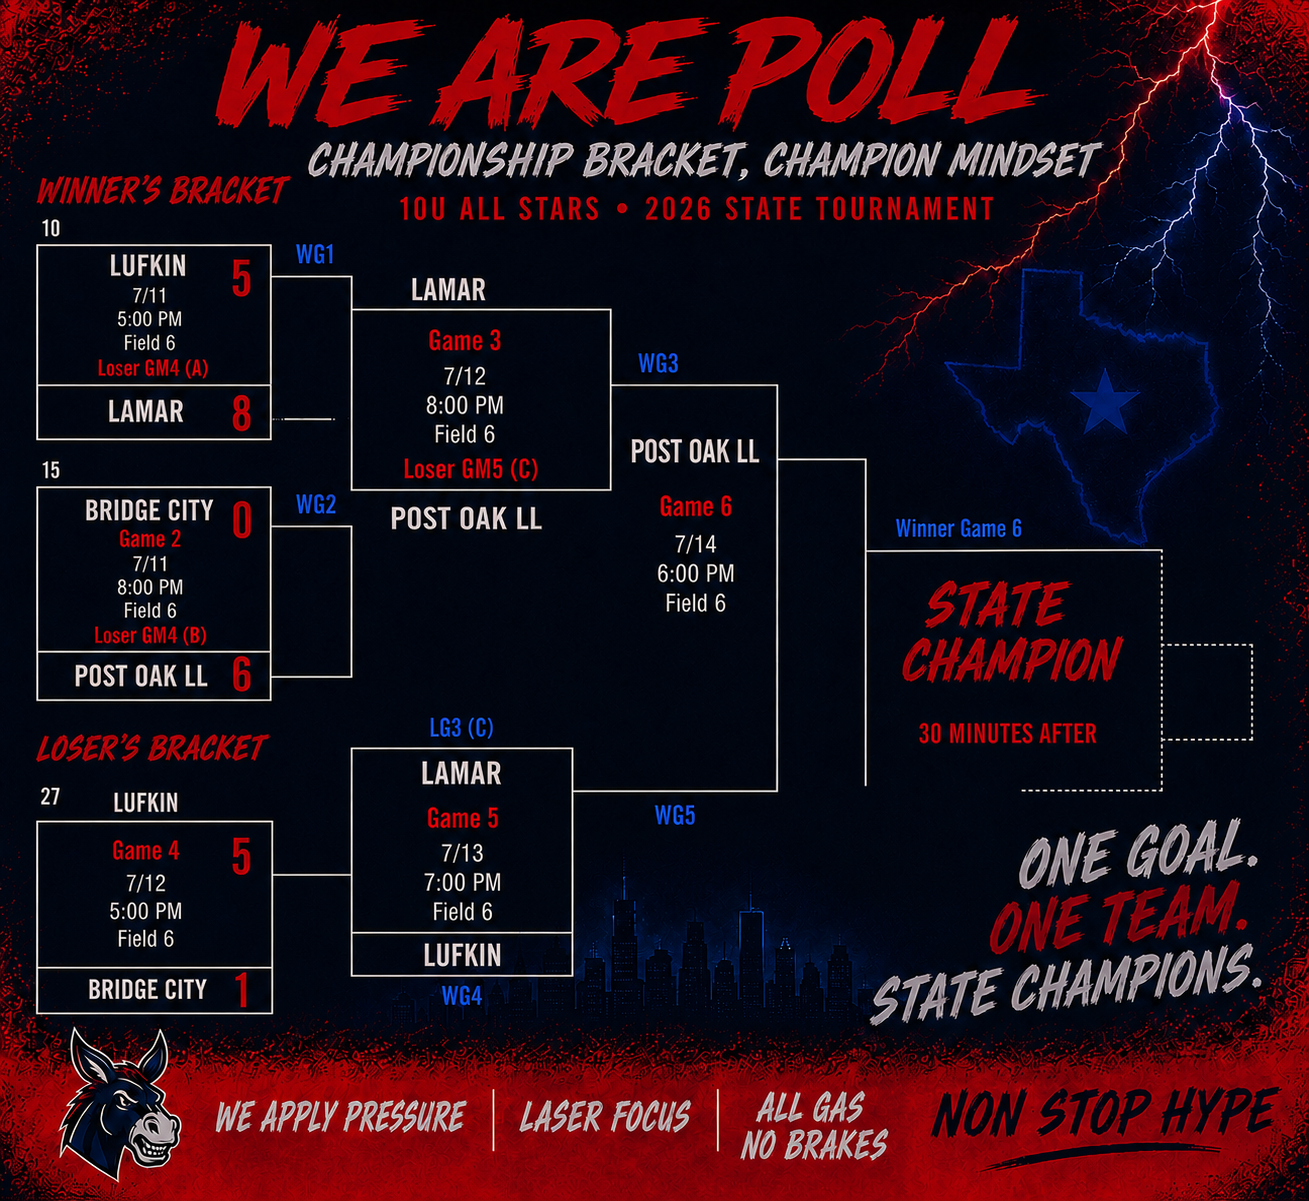
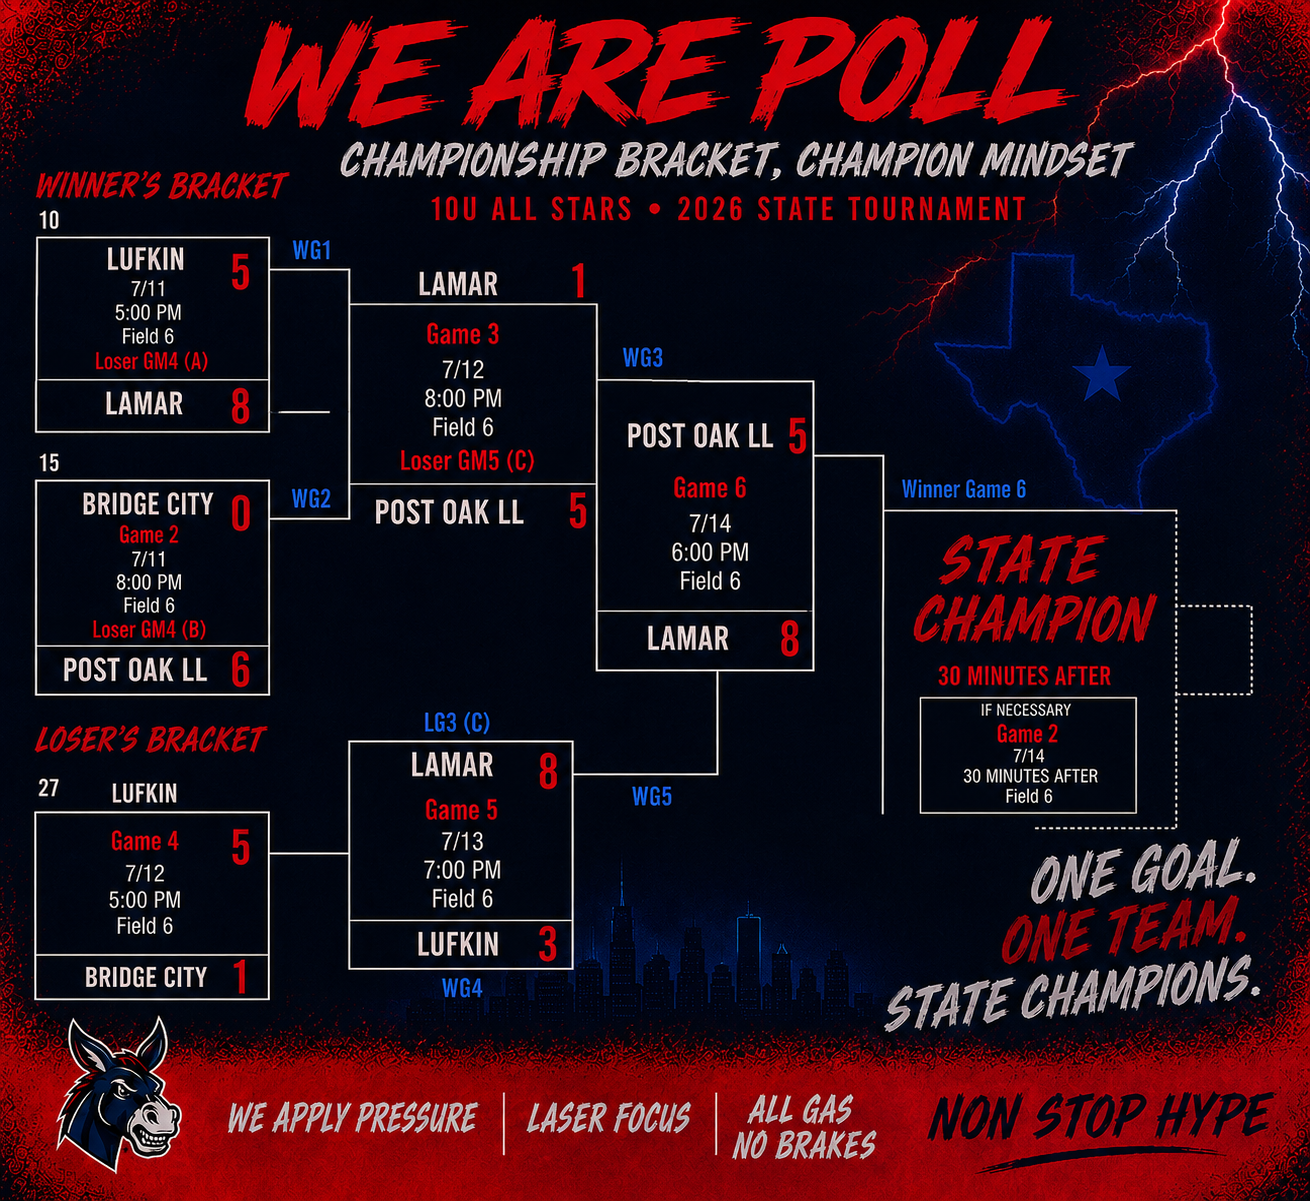
Add championship trailer and final media

diff --git a/hype.html b/hype.html
@@ -3,8 +3,8 @@
 <head>
   <meta charset="utf-8" />
   <meta name="viewport" content="width=device-width, initial-scale=1" />
-  <title>State Hype Video | Post Oak Live</title>
-  <meta name="description" content="Watch the Post Oak 10s All Stars state tournament hype video directly on Post Oak Live." />
+  <title>Championship Trailer | Post Oak Live</title>
+  <meta name="description" content="Watch the Post Oak 10U All Stars Championship Trailer and state hype video directly on Post Oak Live." />
   <link rel="icon" href="assets/brand/post-oak-logo-512.png" />
   <link rel="preconnect" href="https://fonts.googleapis.com">
   <link rel="preconnect" href="https://fonts.gstatic.com" crossorigin>
@@ -26,23 +26,46 @@
     </nav>
   </header>
 
-  <main id="main" class="watch-page">
+  <main id="main" class="watch-page hype-page">
     <section class="watch-hero">
       <div>
-        <p class="eyebrow">Post Oak 10s All Stars</p>
-        <h1>State Hype Video</h1>
+        <p class="eyebrow">Post Oak 10U All Stars</p>
+        <h1>Championship Trailer</h1>
         <p class="lede">Catch The Fever</p>
       </div>
     </section>
 
-    <section class="media-shell" aria-label="Post Oak 10s All Stars hype video player">
+    <section class="media-shell trailer-shell" aria-label="Post Oak 10U All Stars Championship Trailer player">
+      <div class="media-section-heading">
+        <span class="panel-kicker">Featured</span>
+        <h2>Championship Trailer</h2>
+        <p>Mobile-optimized for fans following Post Oak from anywhere.</p>
+      </div>
+      <div class="media-frame trailer-frame">
+        <video
+          controls
+          preload="metadata"
+          playsinline
+          poster="assets/brand/championship-poster.webp"
+          aria-label="Post Oak 10U All Stars Championship Trailer">
+          <source src="assets/video/championship-trailer.mp4?v=final-20260713" type="video/mp4" />
+          Your browser does not support HTML5 video. <a href="assets/video/championship-trailer.mp4">Download the Championship Trailer</a> instead.
+        </video>
+      </div>
+    </section>
+
+    <section class="media-shell secondary-video-shell" aria-label="Post Oak 10U All Stars hype video player">
+      <div class="media-section-heading">
+        <span class="panel-kicker">Original Hype Video</span>
+        <h2>State Hype Video</h2>
+      </div>
       <div class="media-frame">
         <video
           controls
           preload="metadata"
           playsinline
           poster="assets/video/hype-poster.jpg"
-          aria-label="Post Oak 10s All Stars state tournament hype video">
+          aria-label="Post Oak 10U All Stars state tournament hype video">
           <source src="assets/video/post-oak-10s-hype.mp4?v=92cac2a" type="video/mp4" />
           Your browser does not support HTML5 video. <a href="assets/video/post-oak-10s-hype.mp4">Download the video</a> instead.
         </video>
@@ -52,7 +75,7 @@
 
   <footer class="site-footer">
     <span>© <span id="year"></span> Post Oak Live</span>
-    <span>Post Oak Little League tournament streaming.</span>
+    <span>Post Oak Little League championship media.</span>
   </footer>
   <script src="site.js"></script>
 </body>

diff --git a/styles.css b/styles.css
@@ -302,3 +302,23 @@ h3 { font-size: clamp(2.25rem, 5vw, 4.4rem); font-weight: 900; }
   .championship-hero h1 { font-size: clamp(3.65rem, 17vw, 5.4rem); }
   .hero-subhead { font-size: clamp(1.35rem, 8vw, 2.1rem); }
 }
+
+
+/* Championship trailer / final media updates */
+.hype-page .watch-hero { padding-bottom: 1.2rem; }
+.hype-page .media-shell + .media-shell { margin-top: clamp(2rem, 5vw, 4rem); }
+.media-section-heading { padding: .25rem .2rem 1rem; max-width: 760px; }
+.media-section-heading h2 { font-size: clamp(2.5rem, 6vw, 5.2rem); }
+.media-section-heading p { margin: .7rem 0 0; color: var(--muted); font-size: clamp(1rem, 2vw, 1.16rem); }
+.trailer-shell { background: linear-gradient(180deg, rgba(217,4,41,.12), rgba(255,255,255,.04)); }
+.trailer-frame {
+  aspect-ratio: 9 / 16;
+  width: min(100%, 430px);
+  margin: 0 auto;
+}
+.trailer-frame video { object-fit: contain; }
+.secondary-video-shell { background: rgba(255,255,255,.035); }
+@media (max-width: 520px) {
+  .trailer-frame { width: 100%; }
+  .media-section-heading h2 { font-size: clamp(2.25rem, 13vw, 3.7rem); }
+}

diff --git a/bracket.html b/bracket.html
@@ -3,8 +3,8 @@
 <head>
   <meta charset="utf-8" />
   <meta name="viewport" content="width=device-width, initial-scale=1" />
-  <title>Tournament Bracket | Post Oak Live</title>
-  <meta name="description" content="View the Texas East tournament bracket for the Post Oak 10s All Stars." />
+  <title>Final Bracket | Post Oak Live</title>
+  <meta name="description" content="View the final Texas East tournament bracket for the Post Oak 10U All Stars." />
   <link rel="icon" href="assets/brand/post-oak-logo-512.png" />
   <link rel="preconnect" href="https://fonts.googleapis.com">
   <link rel="preconnect" href="https://fonts.gstatic.com" crossorigin>
@@ -30,20 +30,20 @@
     <section class="watch-hero bracket-hero">
       <div>
         <p class="eyebrow">Texas East State Tournament</p>
-        <h1>Tournament Bracket</h1>
-        <p class="lede">Track the Post Oak 10s All Stars as they chase the Texas East State Title.</p>
+        <h1>Final Bracket</h1>
+        <p class="lede">The final Texas East State Championship bracket for Post Oak Little League’s 10U All Stars.</p>
       </div>
       <a class="btn btn-primary" href="https://docs.google.com/spreadsheets/d/1FHuu6guCXyWBLNHMTBrC_aJTbhWqQGWR9Itczp3hhUU/edit?gid=936683304#gid=936683304" target="_blank" rel="noopener noreferrer">Follow the Live Tournament Bracket</a>
     </section>
 
-    <section class="bracket-shell" aria-label="Texas East tournament bracket image">
-      <img src="assets/bracket/texas-east-bracket.png" alt="Texas East Little League tournament bracket" />
+    <section class="bracket-shell" aria-label="Final Texas East tournament bracket image">
+      <img src="assets/bracket/texas-east-bracket.png" alt="Final Texas East Little League tournament bracket" />
     </section>
   </main>
 
   <footer class="site-footer">
     <span>© <span id="year"></span> Post Oak Live</span>
-    <span>Texas East State Tournament bracket.</span>
+    <span>Final Texas East State Championship bracket.</span>
   </footer>
   <script src="site.js"></script>
 </body>

diff --git a/index.html b/index.html
@@ -111,10 +111,10 @@
         <a class="text-link" href="live.html">Watch the championship live</a>
       </div>
       <div class="feature-panel hype-panel">
-        <span class="panel-kicker">03 / Hype</span>
-        <h3>Catch The Fever</h3>
-        <p>Start with the Post Oak 10U All Stars hype video, then come back tomorrow night for the game that decides the title.</p>
-        <a class="text-link" href="hype.html">Watch hype video</a>
+        <span class="panel-kicker">03 / Trailer</span>
+        <h3>Championship Trailer</h3>
+        <p>Start with the new mobile-optimized Championship Trailer, then come back for the broadcast path when the game decides the title.</p>
+        <a class="text-link" href="hype.html">Watch championship trailer</a>
       </div>
     </section>
 

diff --git a/PROJECT_STATUS.md b/PROJECT_STATUS.md
@@ -1,5 +1,19 @@
 # Project Status
 
+## 2026-07-13 — Final championship media update
+
+Status: implemented locally; pending production verification after deploy.
+
+Completed locally:
+
+- Downloaded the public Drive-supplied mobile-optimized trailer and added it as `assets/video/championship-trailer.mp4`.
+- Fast-start optimized the Championship Trailer MP4 so playback metadata is available near the front of the file.
+- Updated `hype.html` to feature the new “Championship Trailer” first while preserving the existing state hype video below it.
+- Replaced the bracket image with the final bracket at `assets/bracket/texas-east-bracket.png`.
+- Replaced the championship promotional graphic throughout by overwriting `assets/brand/championship-poster.webp` with the optimized final graphic.
+- Updated homepage trailer callout copy without redesigning or reflowing the landing page.
+
+
 ## 2026-07-13 — Championship homepage targeted refinements
 
 Status: targeted refinements deployed to production and verified on the live GitHub Pages site.

diff --git a/CHANGELOG.md b/CHANGELOG.md
@@ -71,3 +71,11 @@
 - Verified the live GitHub Pages site reflects the targeted championship homepage refinements from implementation commit `14d42c0`.
 - Confirmed the production badge states, date-aware heading/story copy, linked `LIVE NOW` behavior, and uncropped square poster presentation.
 - Confirmed mobile viewport testing showed no horizontal overflow and full poster visibility.
+
+## 2026-07-13 – Final championship media update
+
+- Added the mobile-optimized Championship Trailer to the hype page as the featured video.
+- Preserved the existing state hype video below the new trailer.
+- Replaced the bracket image with the final supplied bracket graphic.
+- Replaced the championship graphic throughout with the final supplied artwork.
+- Updated homepage trailer callout copy while preserving the existing championship page design.

diff --git a/README.md b/README.md
@@ -12,7 +12,7 @@ Static production site for Post Oak Live, focused on the Texas East Little Leagu
 
 - `index.html` — primary landing page
 - `live.html` — live stream page with provider embed and direct fallback
-- `hype.html` — self-hosted state tournament hype video page
+- `hype.html` — self-hosted Championship Trailer plus state tournament hype video page
 - `bracket.html` — Texas East tournament bracket page with live bracket link
 
 ## Brand assets
@@ -20,11 +20,12 @@ Static production site for Post Oak Live, focused on the Texas East Little Leagu
 - `assets/brand/post-oak-little-league-logo.png` — primary Post Oak Little League logo
 - `assets/brand/post-oak-logo-512.png` — compact site/fav icon
 - `assets/brand/post-oak-state-art.jpg` — original state tournament art reference
-- `assets/brand/championship-poster.webp` — optimized championship promotional poster
+- `assets/brand/championship-poster.webp` — optimized final championship graphic
 - `assets/brand/team-watercolor.webp` — optimized watercolor team portrait
 
 ## Video assets
 
+- `assets/video/championship-trailer.mp4` — mobile-optimized Championship Trailer MP4, fast-start optimized for web playback
 - `assets/video/post-oak-10s-hype.mp4` — web-ready 720p MP4, metadata-preload friendly
 - `assets/video/hype-poster.jpg` — generated poster frame
 
@@ -34,5 +35,5 @@ This site is intended for a dedicated PostOakLive GitHub Pages repository with `
 
 ## Bracket
 
-- Static bracket image: `assets/bracket/texas-east-bracket.png`
+- Static final bracket image: `assets/bracket/texas-east-bracket.png`
 - Live bracket: https://docs.google.com/spreadsheets/d/1FHuu6guCXyWBLNHMTBrC_aJTbhWqQGWR9Itczp3hhUU/edit?gid=936683304#gid=936683304